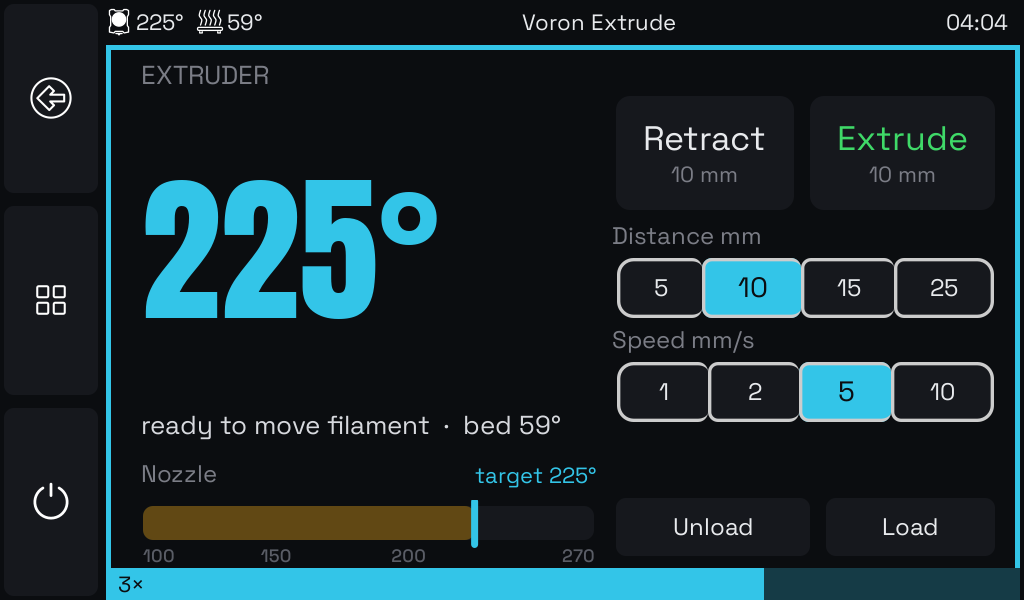
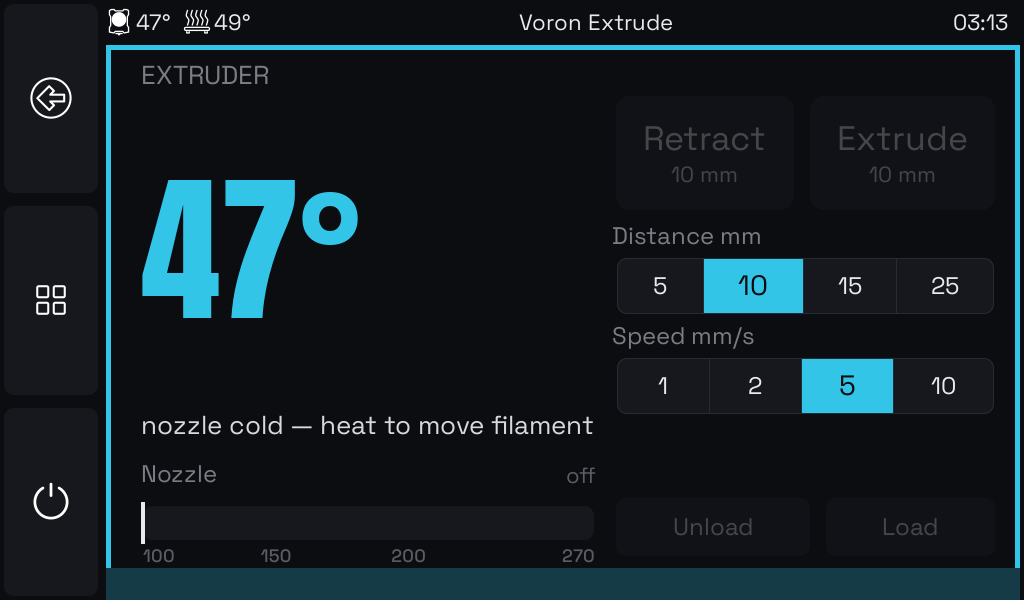
README: live job-phase gallery + refreshed Extrude shot
Heating/leveling/meshing/printing frames captured automatically during
a real print by a phase-watcher parsing the M117 protocol; Extrude
retaken cold-gated with the quieted segmented chips.

diff --git a/README.md b/README.md
@@ -11,12 +11,21 @@ plus the M117 protocol emitted by PRINT_START in my Klipper config repo.
 
 | | |
 |---|---|
-| ![Home](screenshots/home.png) | ![Job paused](screenshots/job-paused.png) |
-| **Home** — READY/WARM/HEATING hero, icon verb cards, scrollable print-again history | **Job status (paused)** — filament controls swap in; resume/stop verbs |
-| ![Job done](screenshots/job-done.png) | ![Move](screenshots/move.png) |
-| **Job status (done)** — violet phase, temps cooling, Save Z | **Move** — tap-to-go bed map, Z height map, one-tap verbs |
+| ![Home](screenshots/home.png) | ![Move](screenshots/move.png) |
+| **Home** — READY/WARM/HEATING hero, icon verb cards, scrollable print-again history | **Move** — tap-to-go bed map, Z height map, one-tap verbs |
 | ![Preheat](screenshots/preheat.png) | ![Extrude](screenshots/extrude.png) |
 | **Preheat** — draggable heater sliders, Mainsail-style power graph, material profiles | **Extrude** — queueable strokes with rail count badge, cold-gated verbs |
+
+A print walks the job screen through its phases:
+
+| | |
+|---|---|
+| ![Heating](screenshots/job-heating.png) | ![Leveling](screenshots/job-leveling.png) |
+| **Heating** — amber, ambient-referenced percent from the M117 heat bars | **Leveling** — cyan, QGL driven by the heat-soak gate |
+| ![Meshing](screenshots/job-meshing.png) | ![Printing](screenshots/job-printing.png) |
+| **Meshing** — fresh bed mesh when the soak gate demands one | **Printing** — green percent, time left + ETA, Speed and Z-offset steppers |
+| ![Job paused](screenshots/job-paused.png) | ![Job done](screenshots/job-done.png) |
+| **Paused** — filament controls swap in; resume/stop verbs | **Done** — violet phase, temps cooling, Save Z |
 
 ## Panels
 
